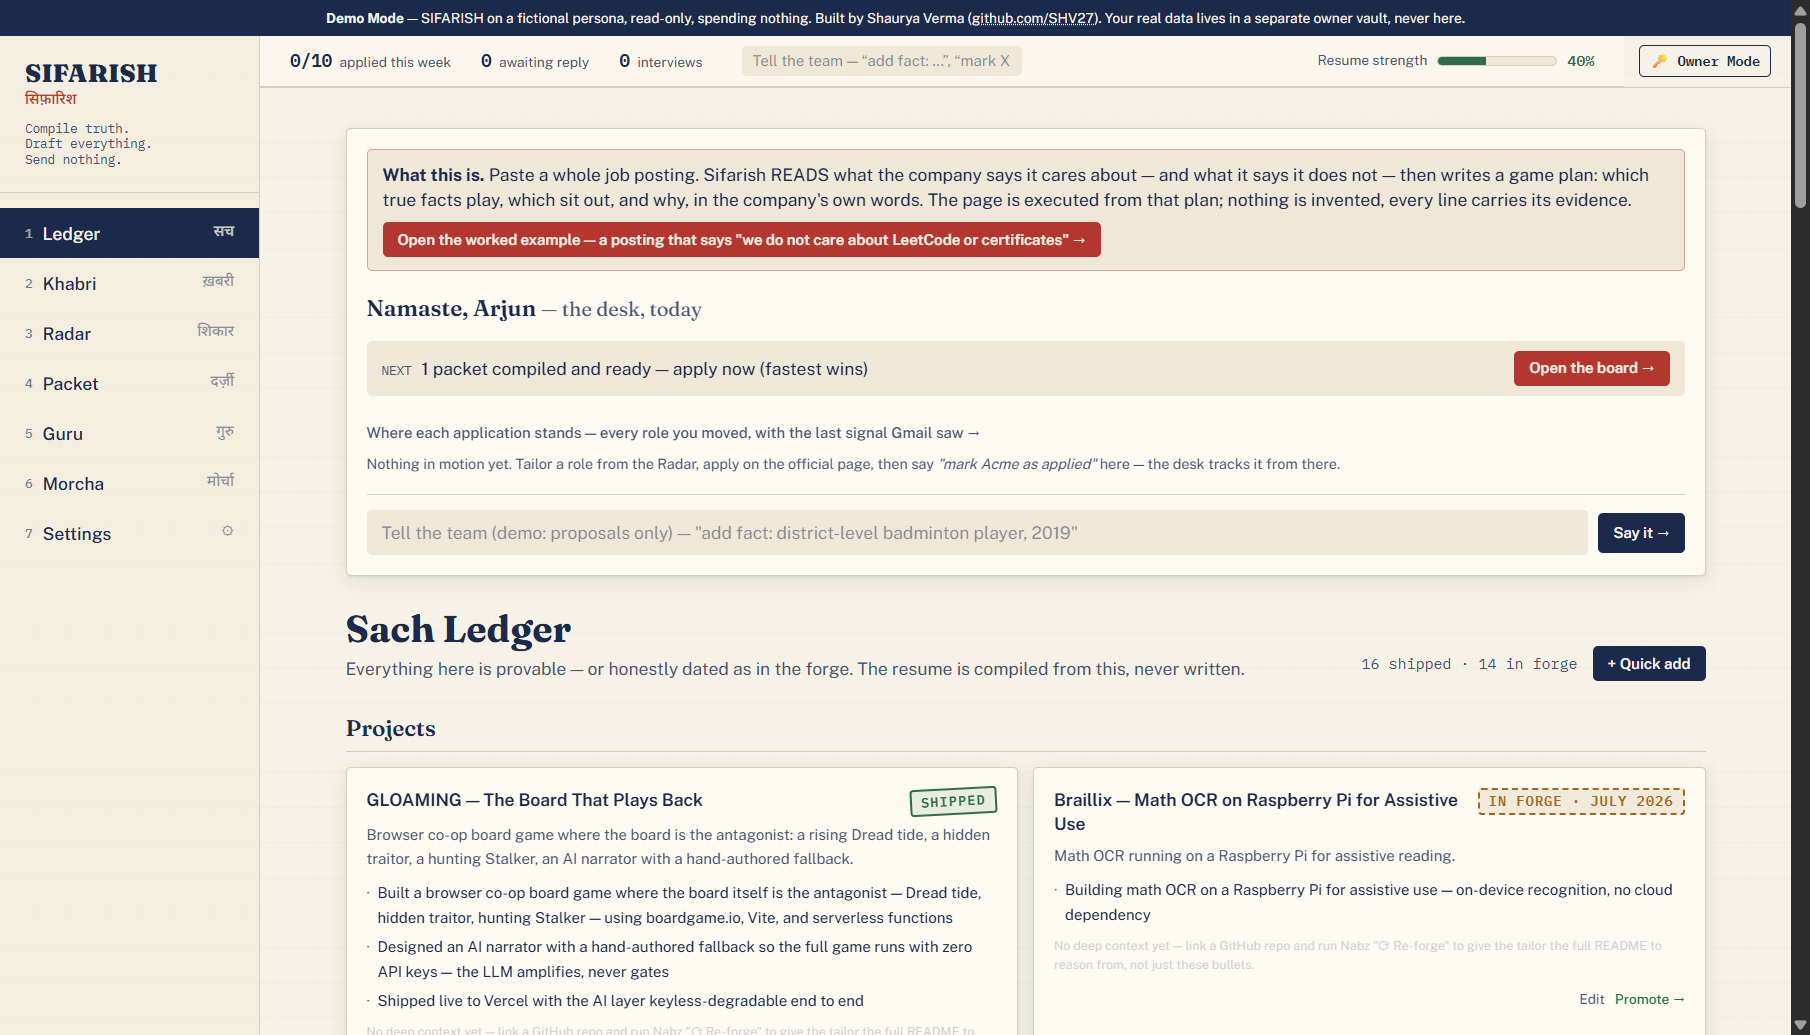
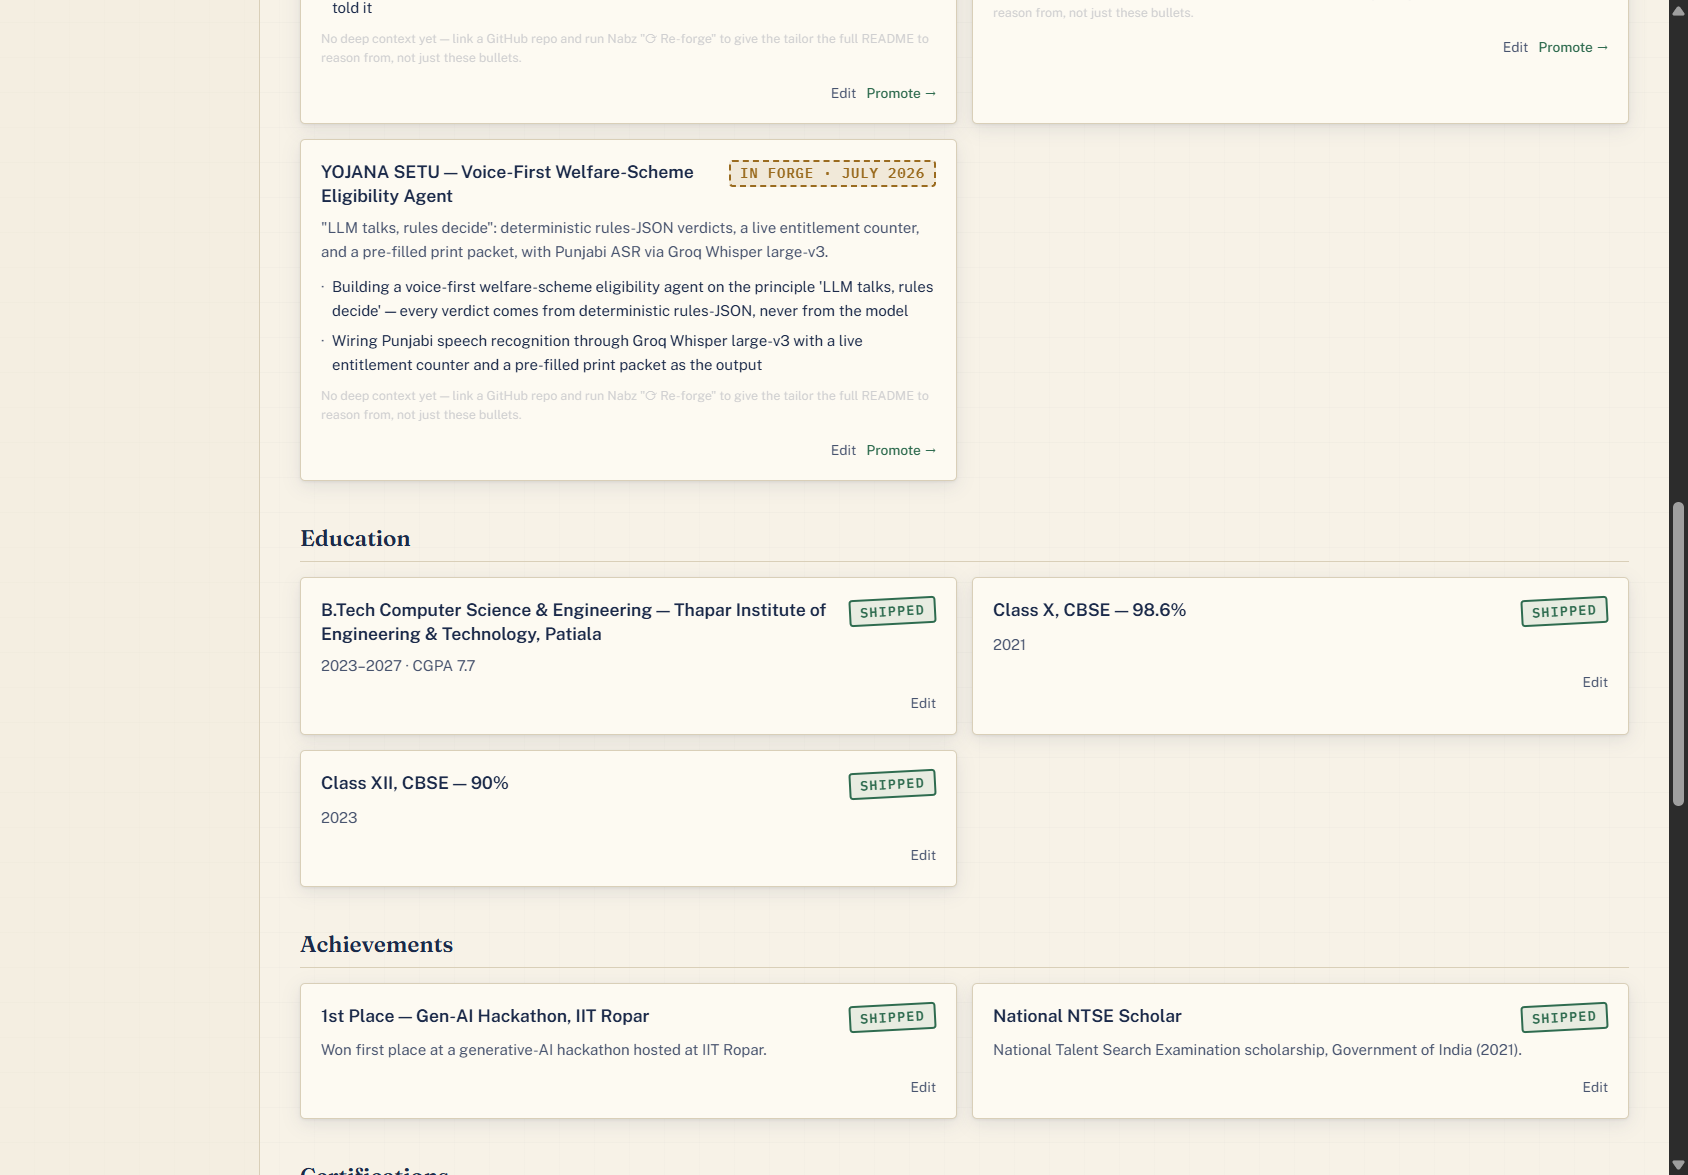
docs(v2 R3): PROGRESS status + README (the executed page, THE MEMORY/CLOCK) + fresh demo screenshots

diff --git a/PROGRESS.md b/PROGRESS.md
@@ -2,7 +2,34 @@
 
 **Resume line: "read PROGRESS.md and continue."**
 
-## Status: V2 CYCLE (05-Sep-2026) — Arcs 1–5 + R1 (THE OWNER'S EYE) + R2 (THE TEAM) built, deployed, proven live on HIS vault
+## Status: V2 CYCLE (05-Sep-2026) — Arcs 1–5 + R1 + R2 + R3 (THE HUNTER'S PASS + THE MEMORY) built, deployed, proven live
+
+### R3 — the brief walked a third time, with the whole suite (DECISIONS V2-10)
+- **Fresh-context hunter** (studio-verify adversary) audited code vs brief line by line → 15 findings,
+  every one fixed at its choke point with a gate (tests/r3-audit.test.ts, tests/memory.test.ts):
+  page-solver prefers a FULL two-pager over a starved one-pager (orphan-page guard); the chat lane's
+  schema can say every dossier op; README depth (problem + prose) reaches the plan brain; letter keeps
+  the reading, invents nothing, drops stale ETAs; critic revision re-aims wording; overrule uncapped;
+  custom kinds may lead; ops on every non-refusal turn; url-only READMEs refresh; deterministic critic
+  probes every "we do not care"; "Tell the team" on every width; sample résumés: paste or upload
+  (.pdf/.txt) on the Shelf.
+- **THE MEMORY**: recorded outcomes as data (jobs moved + the reader they were aimed at + what the page
+  led with) → read by every deep pass, shown on the board; starts empty and says so; refuses a rule
+  below 5 outcomes. **THE CLOCK** on the desk from his own window (secure by 30 Nov 2026 · Oct–Nov).
+  **Interview brief** speaks the plan (their cares → his proof; do-not-lead list).
+- **Demo**: the worked example executes THE TEAM's deep pass recorded once by script
+  (`scripts/record-showcase.mts`, data/showcase/babaclick.strategy.json) — GEMINI DEEP PASS + critic
+  on the fictional persona (now three shipped projects), labelled "recorded on 2026-09-05".
+- A skipped critic now names its reason — which exposed the live cause (burst rate-limit at the tail
+  of reading → plan → reframes → critic); backoff 10/20/30 s. Today's repeated proof runs exhausted the
+  free lanes, so the last live eye shows SKIPPED with the reason; his own packets run one at a time.
+- Live proofs on `index-DlPkpohU`: served hash OK · no-Origin → 403 · demo smoke 0 metered POSTs, 0
+  errors, no owner leak · owner proof on HIS vault 0 errors (the Siemens packet showed the keyless
+  floor within the 2-minute wait — rate-limited day; "Run the deep pass" re-runs it) · demo journey
+  read in the browser: clock, memory, recorded pass, honest letter, PDF preview; console clean.
+- Gates: 853 · tsc clean · warning-free build. Registry v12. NOTES parked items marked built.
+
+## Prior status: V2 CYCLE (05-Sep-2026) — Arcs 1–5 + R1 (THE OWNER'S EYE) + R2 (THE TEAM) built, deployed, proven live on HIS vault
 
 Brief: VISION-BRIEF-sifarish-v2.md (voids the 30-Aug brief). Pipeline ran whole: recon (7 lanes,
 RESEARCH.md v2 verdicts) → boardroom (DECISIONS V2-1: 5 pillars, cut list, the Played/Benched board

diff --git a/README.md b/README.md
@@ -85,6 +85,13 @@ reasoning"*; every skill in the rows carries its proving fact ids; the validator
 
 ![The game plan board](docs/screenshots/v2-demo-plan.png)
 
+### v5 — the page the plan executes (demo persona, recorded Gemini pass)
+![The compiled page](docs/screenshots/v2-demo-page.png)
+
+The board above it now also carries **THE MEMORY** (what recorded outcomes taught this plan — it starts
+empty and says so) and the critic's verdict with its reasons; the desk carries **THE CLOCK** from the
+owner's own window. Sample résumés join the canon by paste or upload on the Shelf.
+
 ### v5 — the owner's page, Gemini deep pass, on the real vault
 ![The owner's packet](docs/screenshots/v2-owner-packet.png)
 
